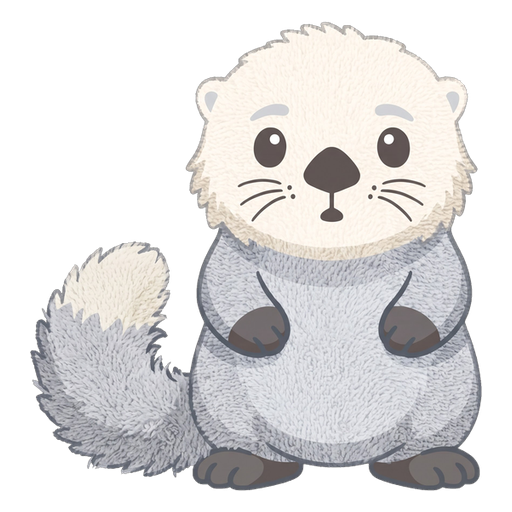
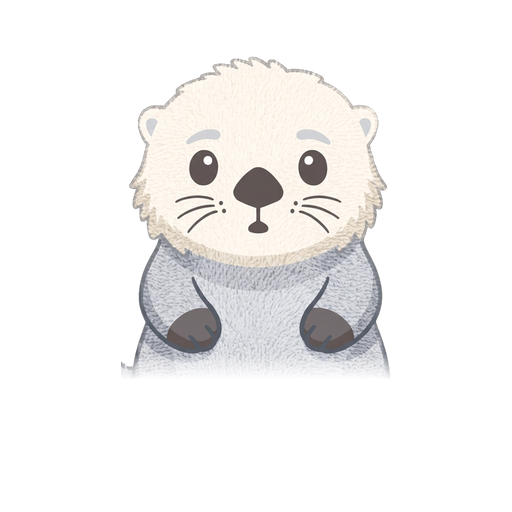
Add files via upload

diff --git a/index.html b/index.html
@@ -6,7 +6,7 @@
        打開檔案唔使拉就見到，方便快速核對版本）
        ======================================== -->
   <script>
-    window.APP_VERSION = "v1.219.4"; // 每次推送 GitHub 前，喺呢度改版號
+    window.APP_VERSION = "v1.219.5"; // 每次推送 GitHub 前，喺呢度改版號
   </script>
 
   <meta charset="UTF-8">
@@ -1729,19 +1729,19 @@
         <div class="landing-steps-grid">
           <div class="landing-step-card">
             <div class="landing-step-num">1</div>
-            <div class="landing-step-icon"><svg width="30" height="30" viewBox="0 0 24 24" fill="none" stroke="#fff" stroke-width="1.8" stroke-linecap="round" stroke-linejoin="round" aria-hidden="true"><circle cx="9" cy="8" r="4"/><path d="M2 21c0-3.9 3.1-7 7-7s7 3.1 7 7"/><path d="M19 8v6M16 11h6"/></svg></div>
+            <div class="landing-step-icon"><svg width="30" height="30" viewBox="0 0 24 24" fill="none" stroke="var(--accent)" stroke-width="1.8" stroke-linecap="round" stroke-linejoin="round" aria-hidden="true"><circle cx="9" cy="8" r="4"/><path d="M2 21c0-3.9 3.1-7 7-7s7 3.1 7 7"/><path d="M19 8v6M16 11h6"/></svg></div>
             <h3 class="landing-step-title" data-i18n="landing.step1Title">建立帳戶</h3>
             <p class="landing-step-desc" data-i18n="landing.step1Desc">只需一分鐘完成註冊，即可解鎖專注溫習室、Ottie 貼圖圖鑑及全部功能。</p>
           </div>
           <div class="landing-step-card">
             <div class="landing-step-num">2</div>
-            <div class="landing-step-icon"><svg width="30" height="30" viewBox="0 0 24 24" fill="none" stroke="#fff" stroke-width="1.8" stroke-linecap="round" stroke-linejoin="round" aria-hidden="true"><rect x="2" y="6" width="14" height="12" rx="2.5"/><path d="M16 10.5l5-3v9l-5-3z"/></svg></div>
+            <div class="landing-step-icon"><svg width="30" height="30" viewBox="0 0 24 24" fill="none" stroke="var(--accent)" stroke-width="1.8" stroke-linecap="round" stroke-linejoin="round" aria-hidden="true"><rect x="2" y="6" width="14" height="12" rx="2.5"/><path d="M16 10.5l5-3v9l-5-3z"/></svg></div>
             <h3 class="landing-step-title" data-i18n="landing.step2Title">專注溫習室</h3>
             <p class="landing-step-desc" data-i18n="landing.step2Desc">與其他學生一同在鏡頭前互相督促專注溫習，同時累積積分與經驗值。</p>
           </div>
           <div class="landing-step-card">
             <div class="landing-step-num">3</div>
-            <div class="landing-step-icon"><svg width="30" height="30" viewBox="0 0 24 24" fill="none" stroke="#fff" stroke-width="1.8" stroke-linecap="round" stroke-linejoin="round" aria-hidden="true"><path d="M8 21h8M12 17v4"/><path d="M7 4h10v5a5 5 0 0 1-10 0z"/><path d="M7 6H4v1.5A3.5 3.5 0 0 0 7.5 11M17 6h3v1.5a3.5 3.5 0 0 1-3.5 3.5"/></svg></div>
+            <div class="landing-step-icon"><svg width="30" height="30" viewBox="0 0 24 24" fill="none" stroke="var(--accent)" stroke-width="1.8" stroke-linecap="round" stroke-linejoin="round" aria-hidden="true"><path d="M8 21h8M12 17v4"/><path d="M7 4h10v5a5 5 0 0 1-10 0z"/><path d="M7 6H4v1.5A3.5 3.5 0 0 0 7.5 11M17 6h3v1.5a3.5 3.5 0 0 1-3.5 3.5"/></svg></div>
             <h3 class="landing-step-title" data-i18n="landing.step3Title">成長與獎勵</h3>
             <p class="landing-step-desc" data-i18n="landing.step3Desc">累積的溫習時數與積分可兌換獎品，並提升等級，見證自己一步步累積的溫習成果。</p>
           </div>
